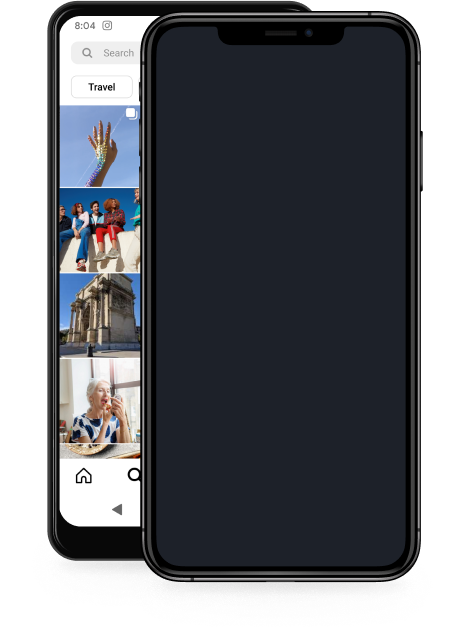
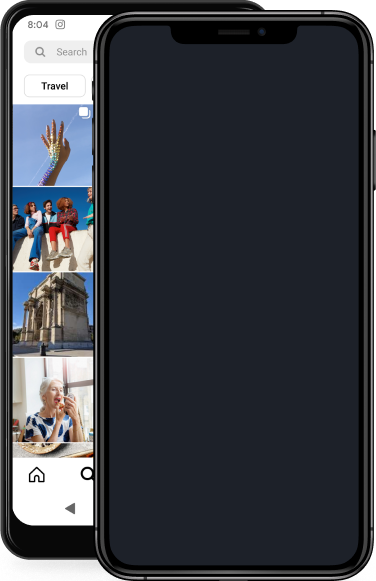
image transition pronta

diff --git a/src/App.jsx b/src/App.jsx
@@ -3,23 +3,83 @@ import { AiFillFacebook } from "react-icons/ai";
 
 const Container = (props) => {
     return (
-        <div className="flex justify-center gap-0 bg-purple-100 pt-[7vh]">
+        <div className="flex justify-center gap-8 bg-purple-100 pt-[7vh]">
             {props.children}
         </div>
     );
 };
 
-const Slide = (props) => {
+const Slideshow = (props) => {
+    const slideshow = [
+        "../assets/1.png",
+        "../assets/2.png",
+        "../assets/3.png",
+        "../assets/4.png",
+    ];
+    const [slideshow1, setSlideshow1] = useState(0);
+    const [slideshow2, setSlideshow2] = useState(0);
+    const [fadeEffect, setFadeEffect] = useState(true);
+    const timer = 5000;
+    const duration = "2000";
+
+    const toggleFadeEffect = () => {
+        setFadeEffect(!fadeEffect);
+    };
+
+    const handleSlideshows = () => {
+        if (fadeEffect) {
+            if (slideshow1 == slideshow.length - 1) {
+                setSlideshow2(0);
+            } else {
+                setSlideshow2(slideshow1 + 1);
+            }
+        } else {
+            if (slideshow2 == slideshow.length - 1) {
+                setSlideshow1(0);
+            } else {
+                setSlideshow1(slideshow2 + 1);
+            }
+        }
+    };
+
+    useEffect(() => {
+        const timerSlideshow = setTimeout(() => {
+            handleSlideshows();
+            toggleFadeEffect();
+        }, timer);
+
+        return () => {
+            clearTimeout(timerSlideshow);
+        };
+    }, [slideshow1, slideshow2]);
+
     return (
-        <div>
-            <img src="../assets/0.png" />
+        <div className="flex">
+            <img src="../assets/0.png" className="" />
+
+            <div className={"flex absolute pl-[110px] pt-[25px]"}>
+                <img
+                    src={slideshow[slideshow1]}
+                    className={
+                        `duration-[${duration}ms] ` +
+                        (fadeEffect ? "opacity-100" : "opacity-0")
+                    }
+                />
+                <img
+                    src={slideshow[slideshow2]}
+                    className={
+                        `absolute duration-[${duration}ms] ` +
+                        (!fadeEffect ? "opacity-100" : "opacity-0")
+                    }
+                />
+            </div>
         </div>
     );
 };
 
 const Card = (props) => {
     return (
-        <div className="flex flex-col bg-white p-10 pt-12 pb-5 justify-center w-[350px] auto gap-5 border-[1px] border-gray-300">
+        <div className="flex flex-col bg-white p-10 pt-12 mt-3 pb-5 justify-center w-[350px] gap-5 border-[1px] border-gray-300">
             {props.children}
         </div>
     );
@@ -226,7 +286,7 @@ export default function App() {
     return (
         <div>
             <Container>
-                {!isMobile && <Slide />}
+                {!isMobile && <Slideshow />}
                 <FormLogin />
             </Container>
             {/* <Footer /> */}
